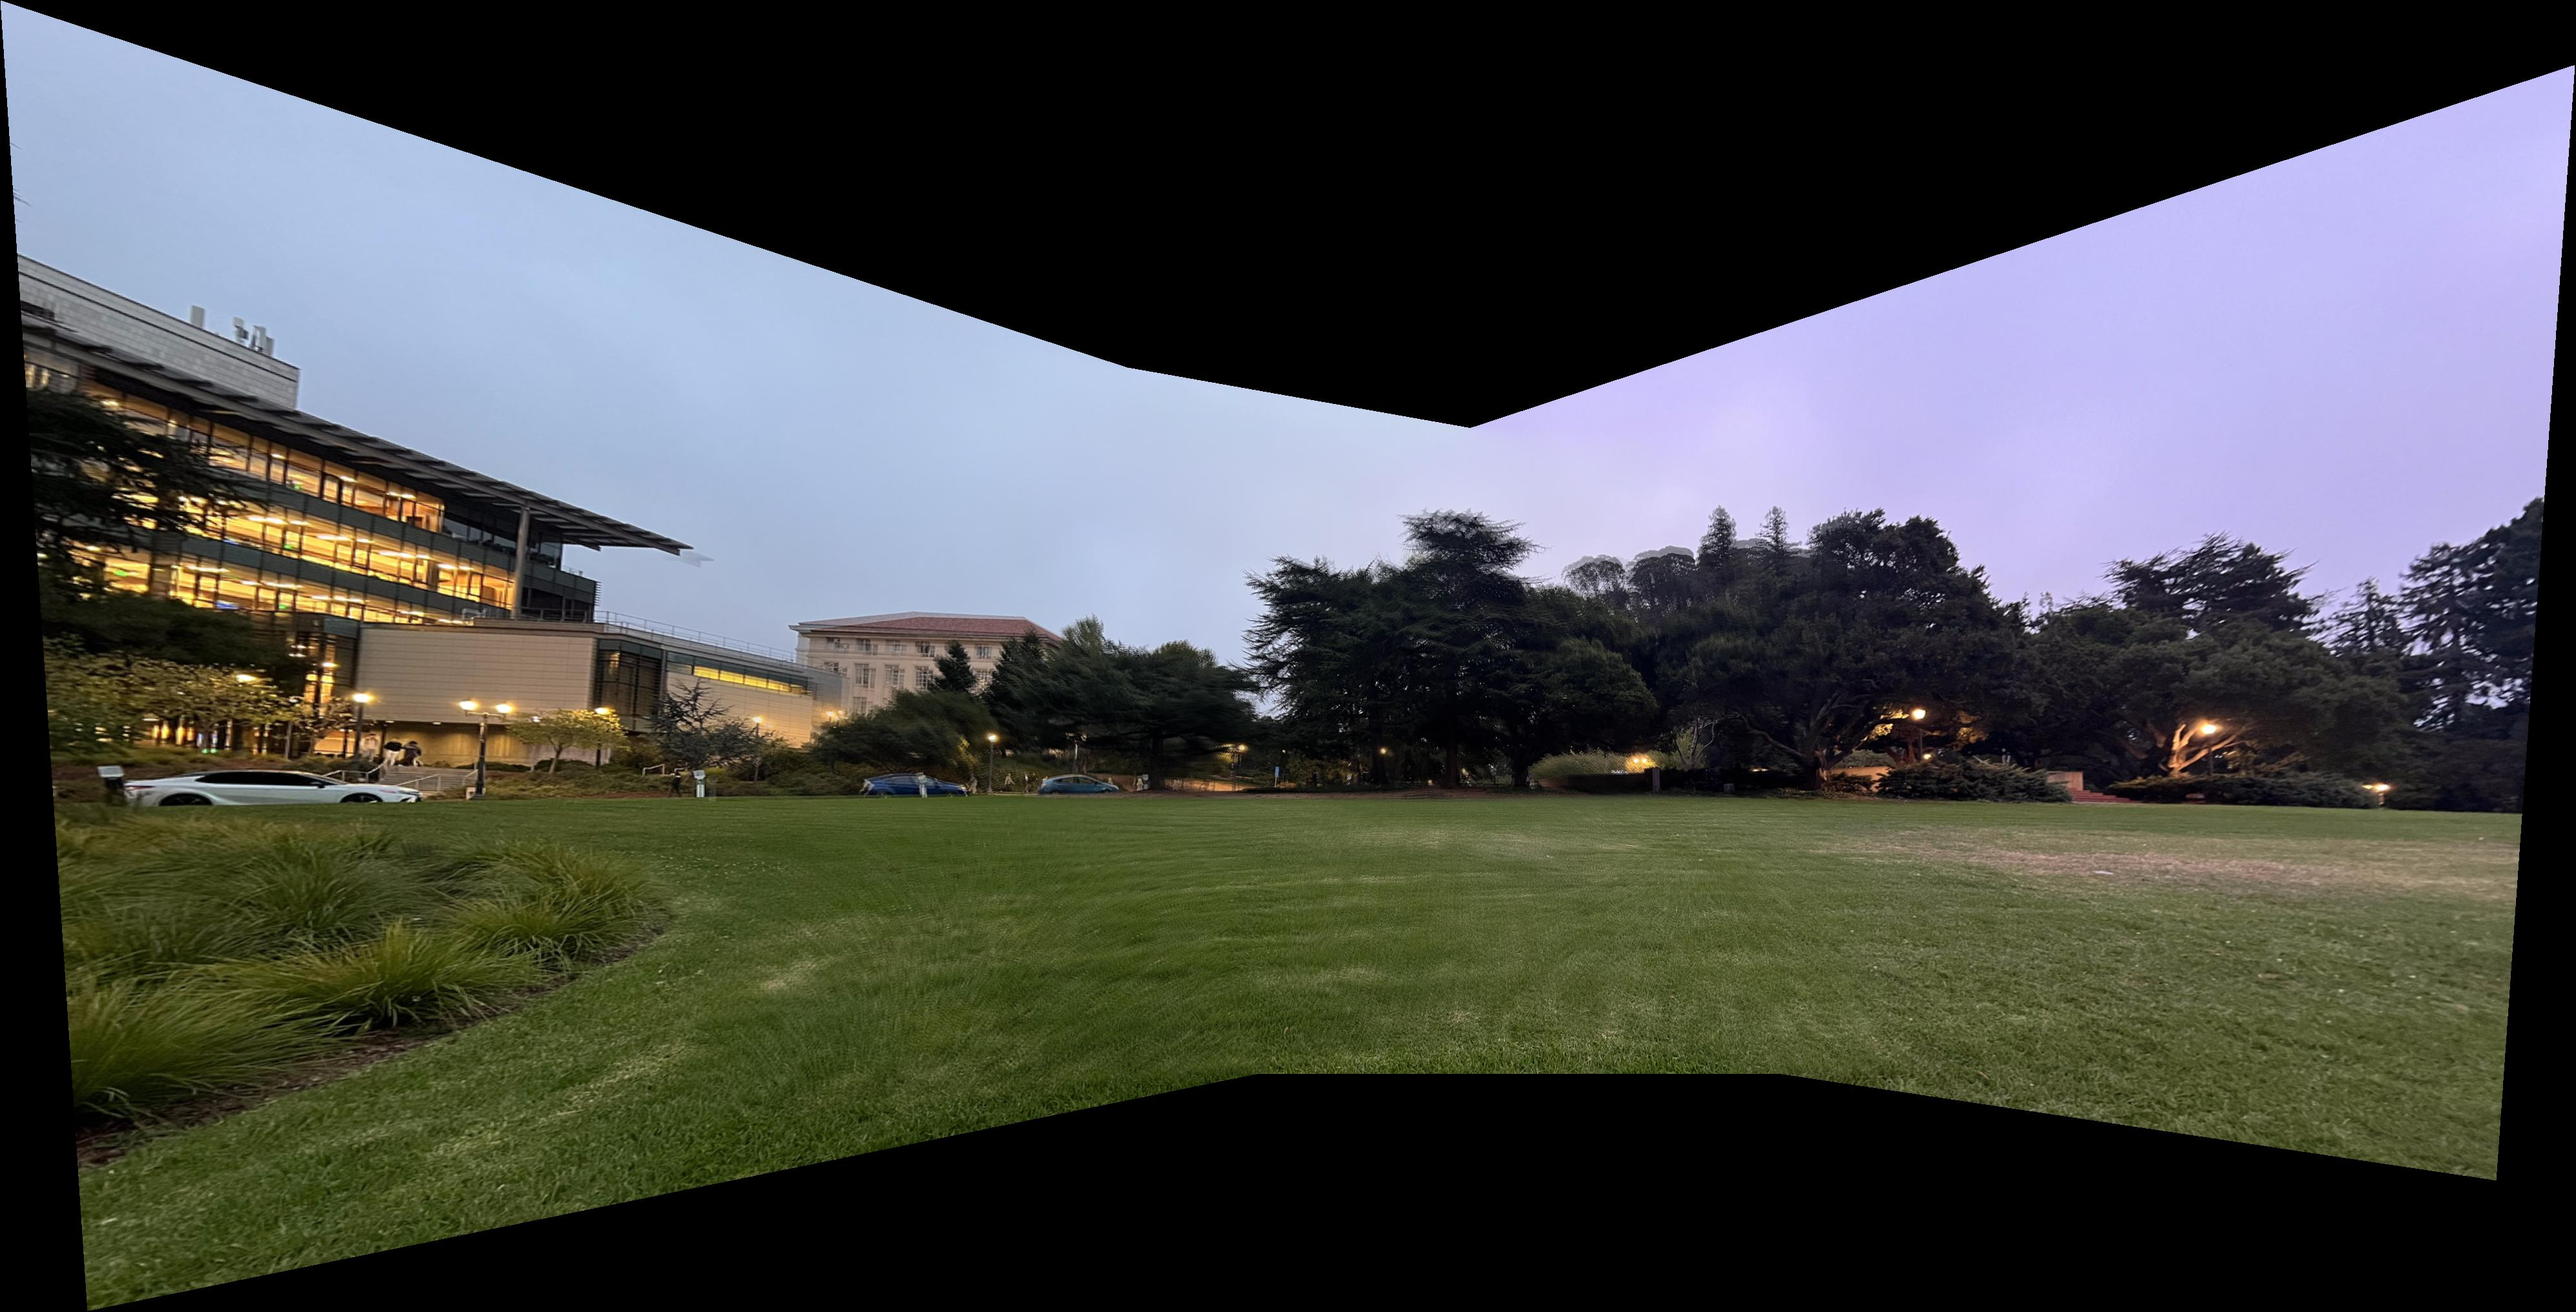
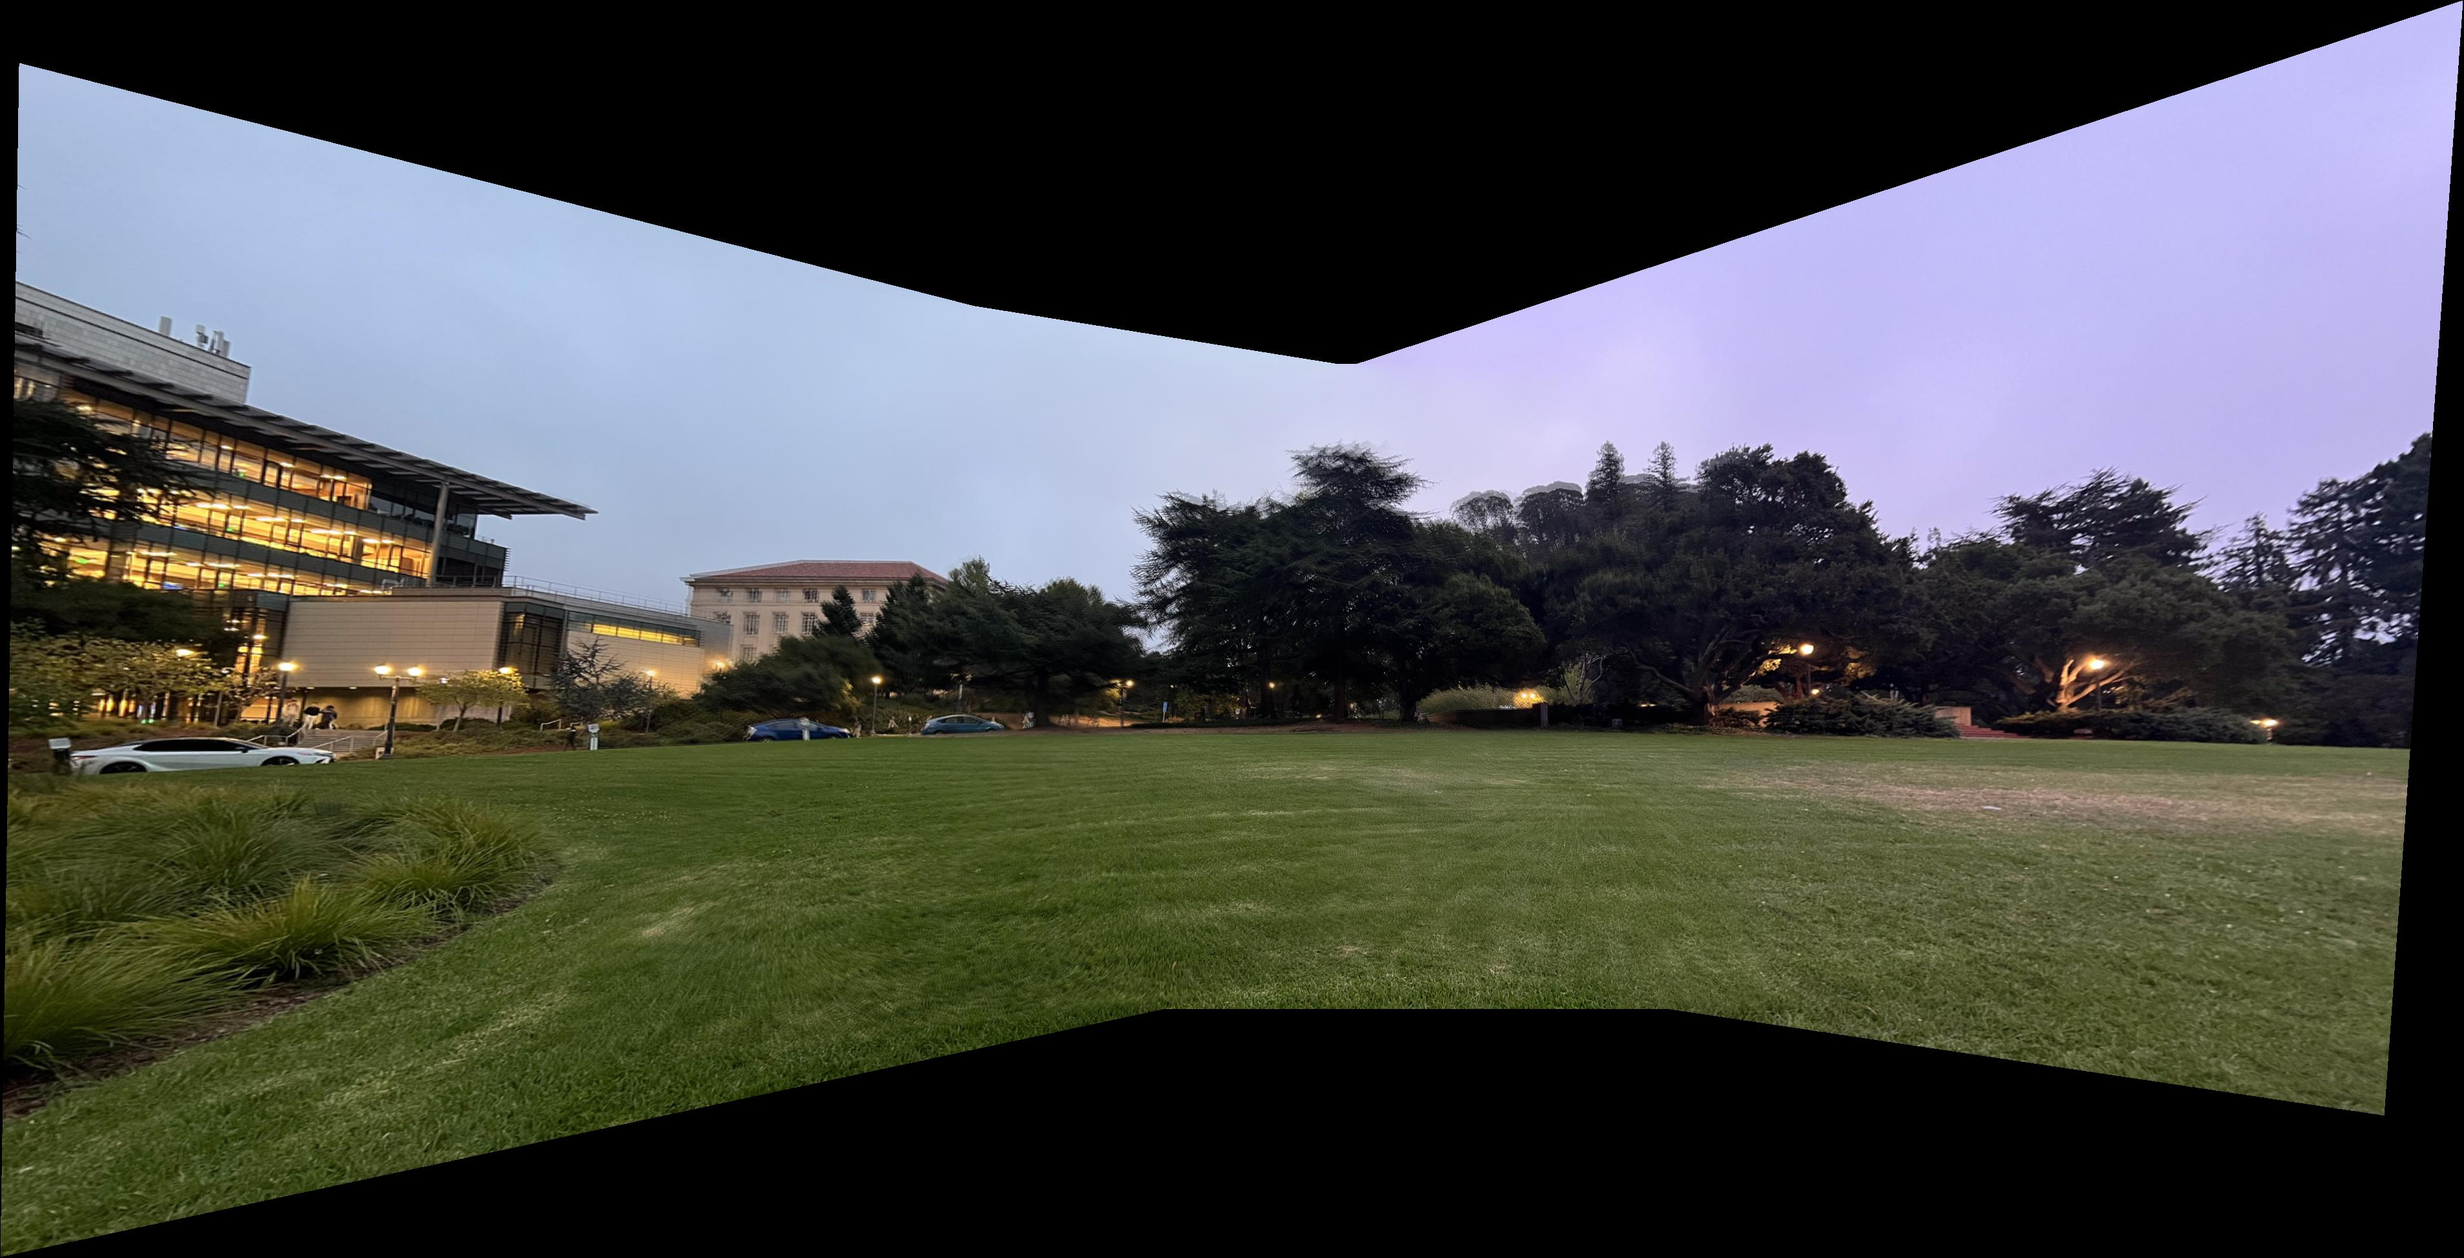
final website done

Changed region(s): [[0.0, 0.0, 1.0, 1.0], [0.0, 0.0, 0.2806, 0.1846], [0.2806, 0.1846, 0.3118, 0.2154]]

diff --git a/src/components/projects/proj04/Proj04.js b/src/components/projects/proj04/Proj04.js
@@ -59,6 +59,9 @@ import crescent_lawn0_harris from '../../../static/proj04/crescent_lawn/harris0.
 import crescent_lawn1_harris from '../../../static/proj04/crescent_lawn/harris1.png'
 import crescent_lawn2_harris from '../../../static/proj04/crescent_lawn/harris2.png'
 import crescent_lawn3_harris from '../../../static/proj04/crescent_lawn/harris3.png'
+import crescent_lawn0_patches from '../../../static/proj04/crescent_lawn/patches0.png'
+import crescent_lawn0_invariant_patches from '../../../static/proj04/crescent_lawn/rot_invariant_patches0.png'
+import crescent_lawn_auto_ransac_rot_invariant_mosaic from '../../../static/proj04/crescent_lawn/crescent_lawn_auto_ransac_rot_invariant_mosaic.jpg'
 
 
 
@@ -386,12 +389,42 @@ const Proj04 = () => {
                 automated pipeline is working as intended! There are slight differences between the two (if we zoom in carefully), but I'm happy with these results overall. While manually finding correspondence points
                 ensures that we have the most accurate homographies, the automated pipeline is far more efficient and can be used for new images without much hassle (aside from hyper-parameter tuning.)
             </p>
+            <h1 className="lvl2-header">Bells & Whistles</h1>
+            <h1 className="lvl3-header">Rotation-Invariant Feature Descriptors</h1>
+            <p className="text">
+                One of the bells and whistles I implemented was rotation-invariant feature descriptors from SIFT. I calculate the gradient of the feature window in both the x and y directions, and then the magnitude of the gradient. 
+                I do this for each pixel in the window, and then find the orientation of the gradient with arctan(grad_y, grad_x). After ensuring all angles are positive, I then create a histogram of the gradient orientations.
+                I choose the peak of the histogram as the final orientation for the window, and then rotate the window by this angle about its center. I then extract the feature descriptor as normal. Below I show the results
+                of this rotation-invariant feature descriptor extraction on the Berkeley City image.
+            </p>
+            <div className="image-table" style={{ display: 'grid', gridTemplateColumns: 'repeat(2, 1fr)', gap: '15px', marginTop: '30px' }}>
+                {[
+                    {image: crescent_lawn0_patches, caption: "Regular Feature Descriptors"},
+                    {image: crescent_lawn0_invariant_patches, caption: "Rotation-Invariant Feature Descriptors"},
+                ].map((item, index) => (
+                    <div key={index} style={{ textAlign: 'center' }}>
+                    <img src={item.image} alt={`image-${index}`} style={{ width: '100%', height: 'auto', maxWidth: '500px' }} />
+                    <p>{item.caption}</p>
+                    </div>
+                ))}
+            </div>
+            <br></br><br></br>
+            <p className="text">
+                Some of the rotation-invariant feature descriptors may not exactly look like the rotated version of their regular counterparts, but this is becasue rotation of the patches can lead to clipping of the image. When normalizing, 
+                this leads to different-looking feature descriptors. However, I found that, for the most part, this did not affect the mosaic negatively in any way. In fact, I think that the crescent law rotation-invariant feature descriptor based
+                mosaic looks better than the regular feature descriptor based mosaic.
+            </p>
+            <br></br><br></br>
+            <img src={crescent_lawn_auto_ransac_rot_invariant_mosaic} style={{ width: '100%', height: 'auto', maxWidth: '500px', marginLeft: '25%'}} /> 
             <h1 className="lvl2-header">Conclusion</h1>
             <p className="text">
                 All in all, I found this project to be very interesting! I learned a lot about how homographies can be used to create perspective shifts in images, and how they can be used to stitch images together. 
                 I thought that the RANSAC algorithm to compute homographies was really interesting, and I'm glad I got to implement it. I also liked how this project drives us to read a research apper on our own, understand it, and then 
                 implement parts of it. Coolest part was definitely seeing the mosaics come together at the end using the automated pipeline. 
             </p>
+            <br></br><br></br><br></br><br></br>
+            
+
         </div>
     );
 }
